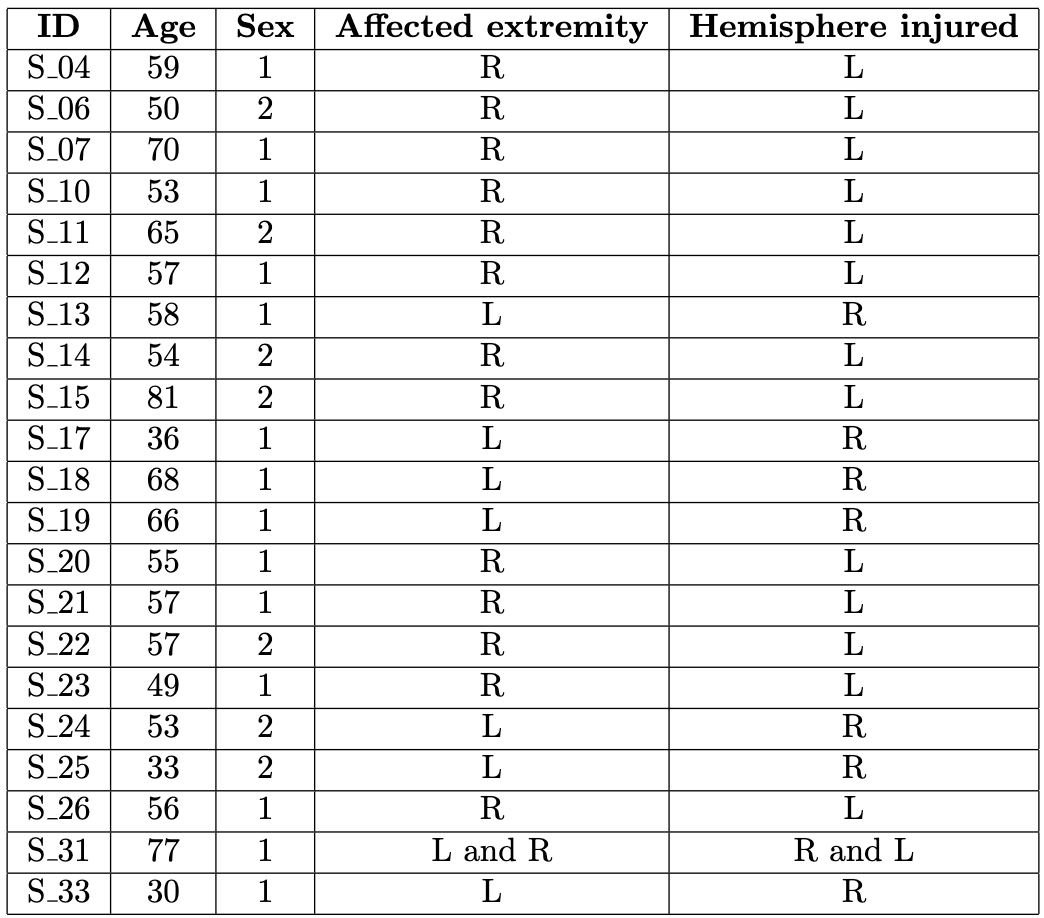
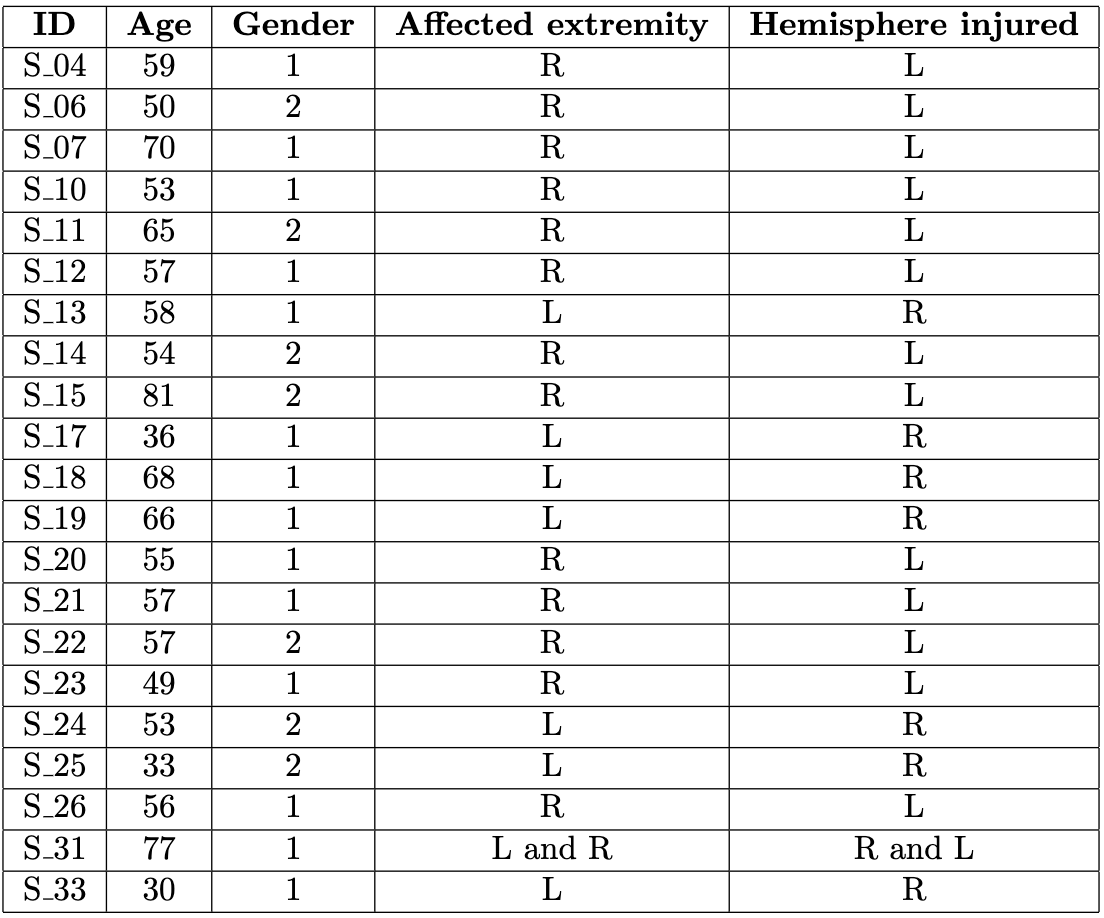
modification appendices

Changed region(s): [[0.0, 0.0, 1.0, 1.0]]

diff --git a/Chapters/Conclusion.tex b/Chapters/Conclusion.tex
@@ -1,6 +1,6 @@
 \chapter{Conclusion}
-The present study provides insights on brain dynamics underlying neural entrainment and sensorimotor synchronization through the frequency-tagging approach with electroencephalogram, in different groups of individuals. The neural tracking in both populations showed higher sensorimotor synchronization in auditory and audiovisual stimuli rather than in the visual one. Further, sensorimotor synchronization, as well as temporal and occipital activation, were delineated with sensory stimuli repeated in a rhythmic sequence rather than a random one, emphasizing the sensorimotor synchronization to periodic beat frequency. Such findings were also supported by the results of the behavioral questions which highlighted the positive feelings of fluidity and involvement with the movement in the rhythmic sequence, whereas these feelings were absent in the random condition. The results for the stroke population were characterized by a diminished and lateralized neural activation compared to the healthy group. \\
-Above all, the results of the present study constitute important progress in the knowledge on the role of the cortical cortex on the integration of auditory and visual walking inputs in patients with stroke. The results gave insights on the possibility of employing the same sensory inputs used in the experiment as tool for gait rehabilitation, where sensory feedback have already been proven to be beneficial to enhance motor response \parencite{Bolognini_2016}. Finding strategies to reacquire walking ability and independence from others is crucial for patients. \\
+The present study provides insights on brain dynamics underlying neural entrainment and sensorimotor synchronization through the frequency-tagging approach with electroencephalogram, in different groups of individuals. The neural tracking in both populations showed higher sensorimotor synchronization in auditory and audiovisual stimuli rather than in the visual one. Further, sensorimotor synchronization, as well as temporal and occipital activation, were delineated with sensory stimuli repeated in a rhythmic sequence rather than a random one, emphasizing the sensorimotor synchronization when presenting the sensory input at frequency rate of 2 Hz. Such findings were also supported by the results of the behavioral questions which highlighted the positive feelings of fluidity and involvement with the movement in the rhythmic sequence, whereas these feelings were absent in the random condition. The results for the stroke population were characterized by a diminished and lateralized neural activation compared to the healthy group. \\
+Above all, the results of the present study constitute important progress in the knowledge on the role of the cortical cortex on the integration of auditory and visual walking inputs in patients with stroke. The results gave insights on the possibility of employing the same sensory inputs used in the experiment as tool for gait rehabilitation, where sensory feedback have already been proven to be beneficial to enhance motor response \parencite{Bolognini_2016, Gomez_2020}. Finding strategies to reacquire walking ability and independence from others is crucial for patients. \\
 In order to get most appropriate results, that can later be used to adapt sensory inputs specifically for diverse lesion's location, further analysis, taking into account this crucial variable is necessary.
 
 % Other studies have taken into consideration the investigation of sensory integration and motor activation in healthy control subjects (e.g. \parencite{Nozaradan_2011}, \parencite{Nozaradan_2014}), but not many have researched this phenomenon at the neural level in clinical population. 

diff --git a/Chapters/Acknowledgements.tex b/Chapters/Acknowledgements.tex
@@ -1,6 +1,6 @@
 \chapter*{Acknowledgements}
 I am indebted to my advisors Marta Matamala-Gomez and Antoni Rodriguez-Fornells, for the guidance and precious suggestions that they gave me during the whole process of collecting and analyzing the data, as well as the writing of the thesis. \\
-I also would like to thank David Cucurell Vega from the Cognition and Brain Plasticity Unit for his precious support and patient during the EEG analysis. \\
+I also would like to thank David Cucurell Vega from the Cognition and Brain Plasticity Unit for his precious support and patience during the EEG analysis. \\
 The thanksgiving is also extended to the whole laboratory of Bellvitge for the warm welcoming and the important insights, which helped with the research. \\
 Then, I want to thank my friends, from the ones of a lifetime to the ones who I just met this year, who make life funnier and never make me feel lonely. \\
 I give my most profound thank you to my family, who supported me in every step of my academic carrier and always make me feel loved. \\ A huge gratitude and love goes to my Umbi who has helped me during the process of this thesis in both technical aspects, and especially in the emotional ones. \\

diff --git a/Chapters/Appendix.tex b/Chapters/Appendix.tex
@@ -1,4 +1,6 @@
-\chapter*{Appendix: Experimental material}
+\appendix
+
+\section{Appendix: Experimental Material}
 \begin{figure}[ht]
     \centering
     \includegraphics[width=0.8\textwidth]{appendix/met_values.png}
@@ -14,12 +16,16 @@
 \begin{figure}[ht]
     \centering
     \includegraphics[width=0.70\textwidth]{appendix/database_stroke.png}
-    \caption{Database for stroke population}
+    \caption{Database for stroke population (Gender: 1 = man; 2 = woman) }
     \label{fig: Database stroke}
 \end{figure}
 
 \clearpage
-\includepdf[scale=0.9, pages=-]{appendix/Active-Q test.pdf}
-\label{pdf: Active-Q questionnaire}
+% \section{Appendix: Active-Q Questionnaire}
+% \label{pdf: Active-Q questionnaire}
+\includepdf[scale=0.8, pages=1, 
+    pagecommand={\section{Appendix: Active-Q questionnaire}\label{pdf: Active-Q questionnaire}}]{appendix/Active-Q test.pdf}
+\includepdf[scale=0.8, pages=2-, 
+    pagecommand={}]{appendix/Active-Q test.pdf}
 
 \clearpage

diff --git a/Chapters/Methodology.tex b/Chapters/Methodology.tex
@@ -20,7 +20,7 @@ Finally, a third stimulus consisting of the union of the point-light figure walk
 \begin{figure}[h]
     \centering
         \includegraphics[width=0.85\textwidth]{appendix/Picture 1.png}
-        \caption{Auditory and visual sensory inputs}
+        \caption{Auditory, visual, audiovisual inputs, and the experimental timeline}
         \label{fig: visual stimuli}
 \end{figure} \\
 Moreover, after the observation of each sensory input, six behavioral questions were presented: they referred to how the participant felt while seeing the point-light figure walking or listening to the footsteps sound. The questions had to be answered on a Likert scale with values between 1 (strongly disagree) to 5 (strongly agree) (see the Experimental Design section for further details (Table \ref{fig: Behavioral questions})). \\

diff --git a/Chapters/Results.tex b/Chapters/Results.tex
@@ -115,7 +115,7 @@ The results from the correlation show that there was no significant relationship
 \begin{figure}[H]
     \centering
     \includegraphics[width=0.75\textwidth]{scatter_plots/correlation_q2_stroke.png}
-    \caption{Correlation values: Pearson correlation coefficient \textit{r} and \textit{p} value}
+    \caption{Correlation values: Spearman correlation coefficient \textit{r} and \textit{p} value}
     \label{fig correlation values q2: stroke} 
 \end{figure}
 
